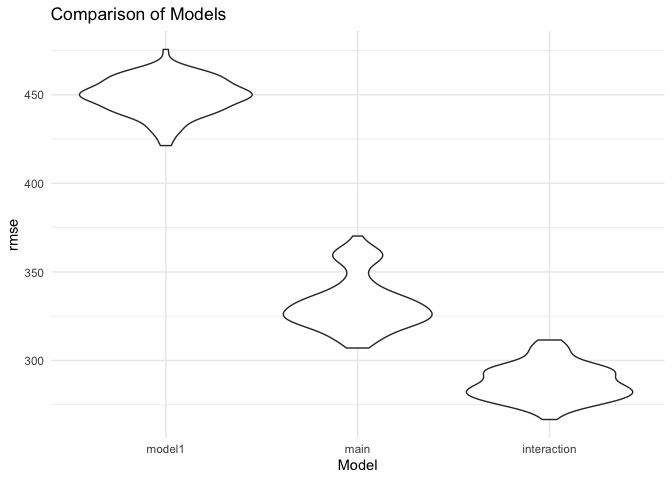
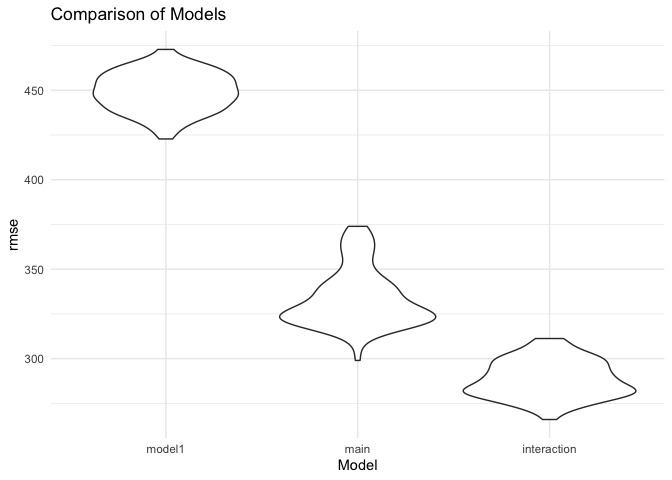
final

diff --git a/p8105_hw6_cq2207.md b/p8105_hw6_cq2207.md
@@ -51,8 +51,7 @@ bwt =
     babysex = factor(babysex, levels = c(1, 2), labels = c("male", "female")),
     frace = factor(frace, levels = c(1, 2, 3, 4, 8, 9), labels = c("white", "black", "asian", "puerto rican", "other", "unknown")),
     malform = factor(malform, levels = c(0, 1), labels = c("absent", "present")),
-    mrace = factor(mrace, levels = c(1, 2, 3, 4, 8, 9), labels = c("white", "black", "asian", "puerto rican", "other", "unknown")),
-    premature = if_else(gaweeks>37, "not premature", "premature")
+    mrace = factor(mrace, levels = c(1, 2, 3, 4, 8, 9), labels = c("white", "black", "asian", "puerto rican", "other", "unknown"))
   )
 ```
 
@@ -111,7 +110,7 @@ ggplot(aes(x = pred, y = resid)) +
     x = "Predicted Birtweight (grams)",
     y = "Residuals"
    ) +
-  theme_set(theme_minimal() + theme(legend.position = "top"))
+  theme_set(theme_minimal() + theme())
 ```
 
 ![](p8105_hw6_cq2207_files/figure-gfm/unnamed-chunk-3-1.png)<!-- -->
@@ -341,14 +340,14 @@ quantile(pull(bootstrap_results2, r.squared), probs = c(0.025, 0.975))
 ```
 
     ##      2.5%     97.5% 
-    ## 0.8937060 0.9270924
+    ## 0.8938172 0.9274234
 
 ``` r
 quantile(pull(bootstrap_results, log), probs = c(0.025, 0.975)) 
 ```
 
     ##     2.5%    97.5% 
-    ## 1.965516 2.058874
+    ## 1.964490 2.059477
 
 The 95% CI for R-squared is (0.894, 0.927) and the 95% confidence
 interval for log(b0\*b1) is (1.965, 2.058).
